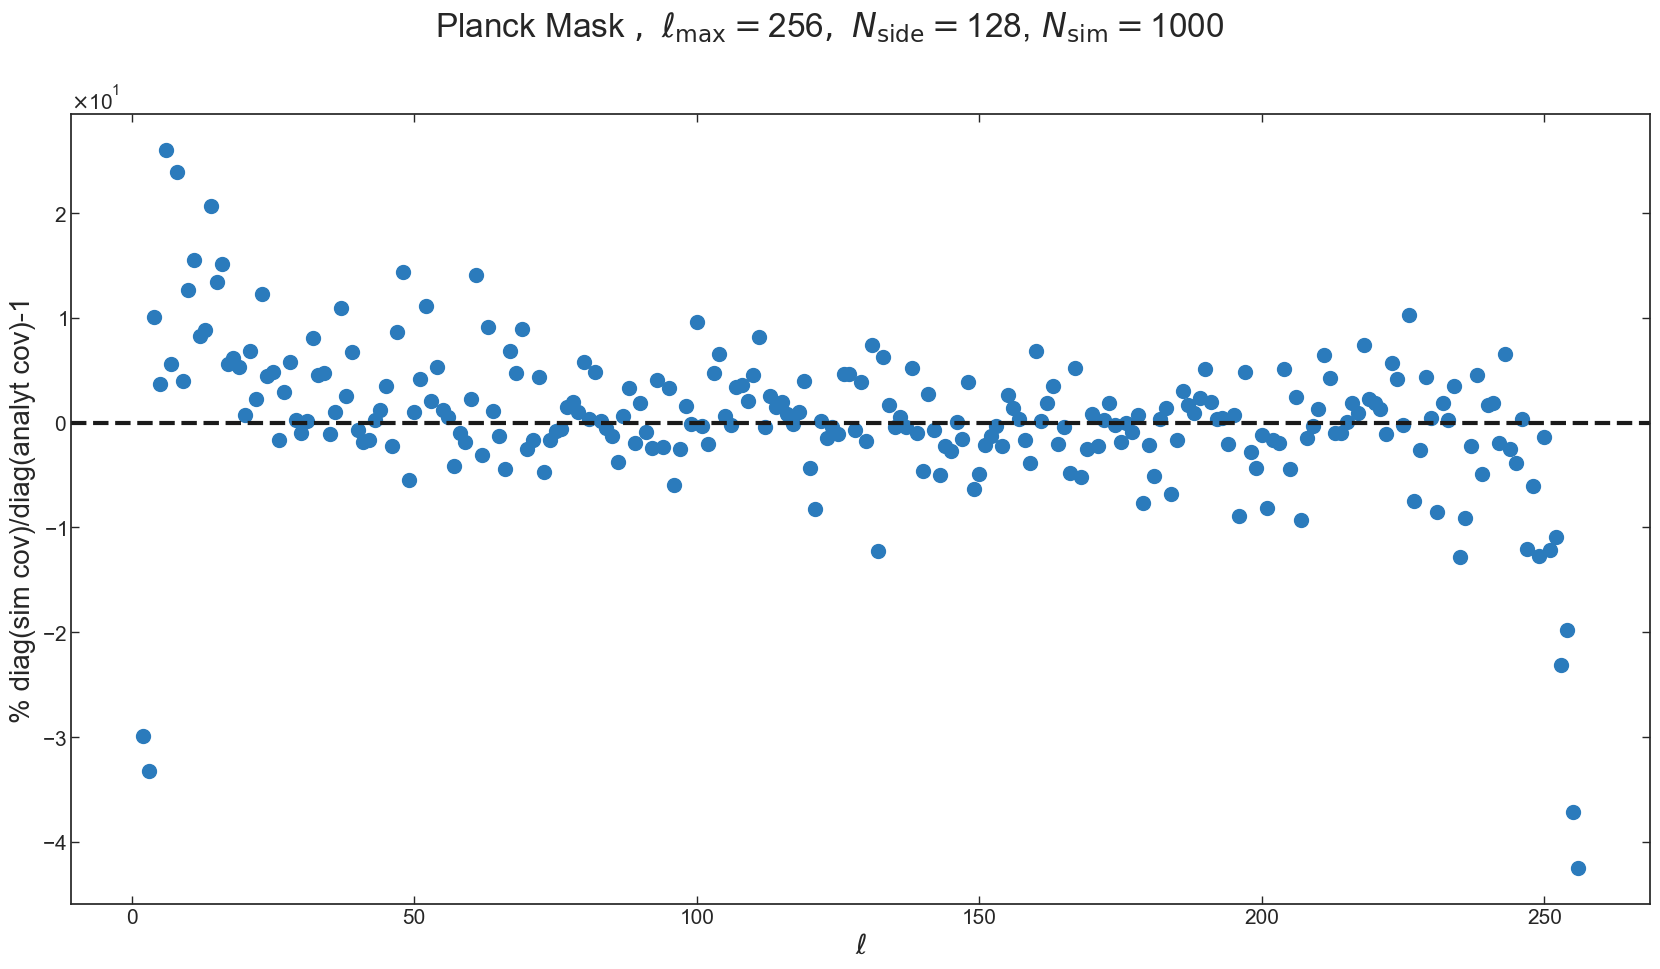
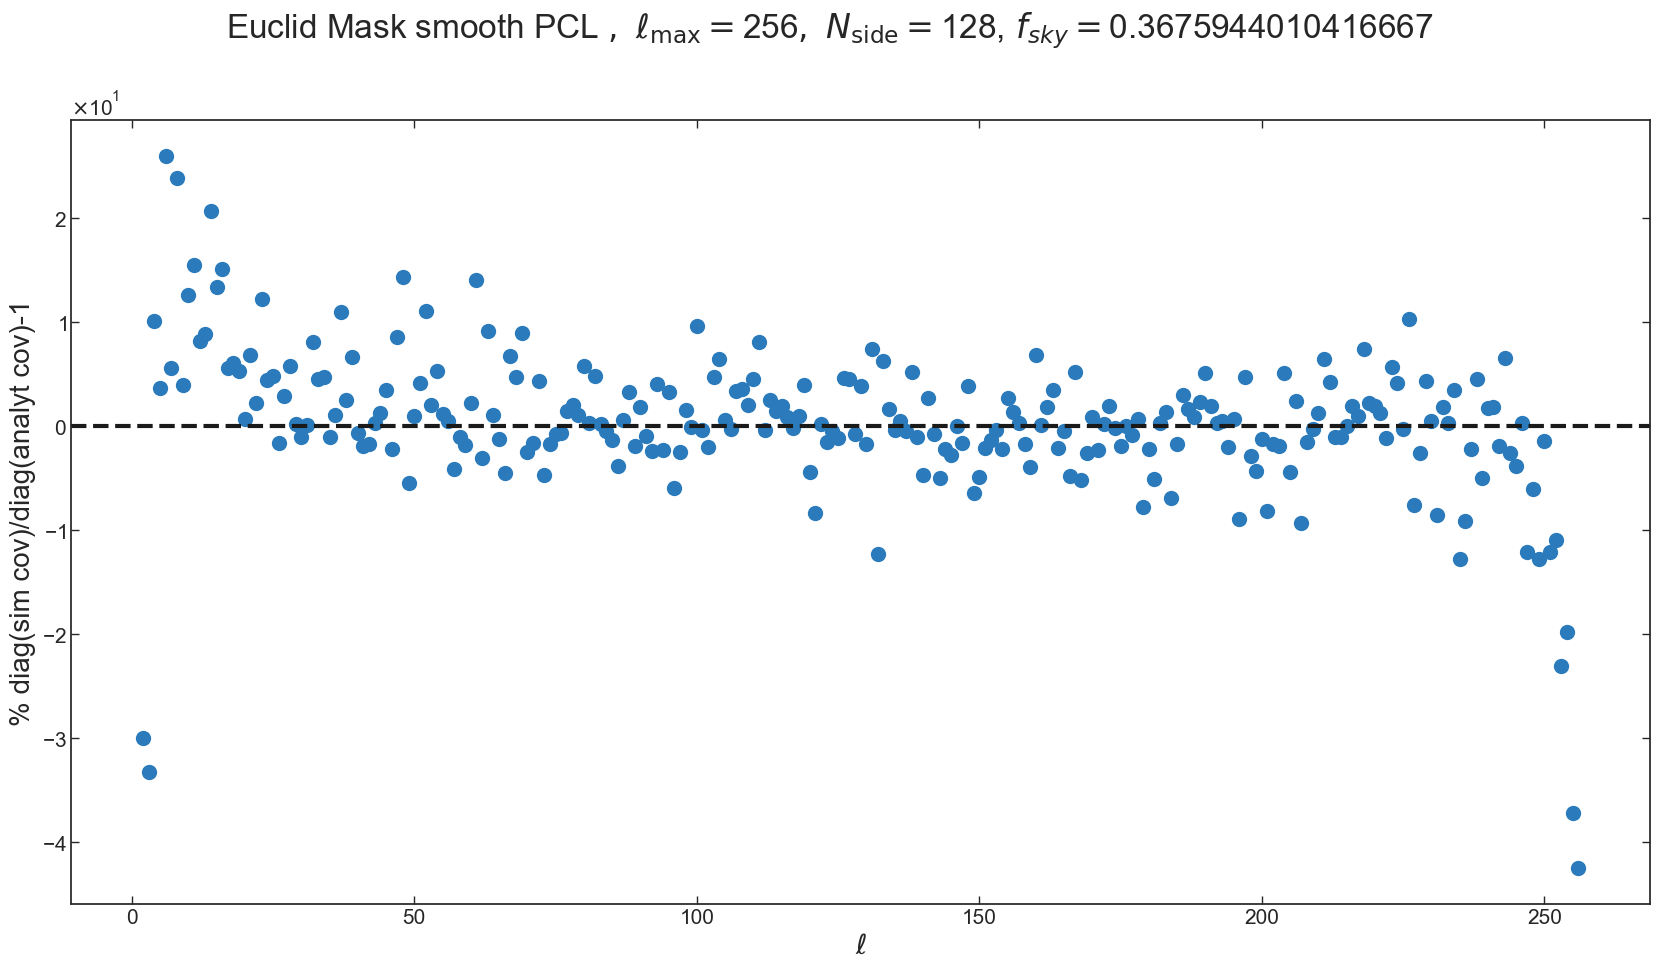
r quit
Minor

diff --git a/src/TG_needlet_EUCLID_mask_noise2_plot_tesi.py b/src/TG_needlet_EUCLID_mask_noise2_plot_tesi.py
@@ -11,10 +11,12 @@ import cython_mylibc as mylibc
 import analysis, utils, spectra, sims
 from IPython import embed
 import seaborn as sns
+
 sns.set()
 sns.set(style = 'white')
 sns.set_palette('husl')
 
+#plt.style.use("dark_background")
 import matplotlib as mpl
 mpl.rc('xtick', direction='in', top=True, bottom = True)
 mpl.rc('ytick', direction='in', right=True, left = True)
@@ -172,7 +174,7 @@ axs[1].set_title(r'Corr $T^T\times gal^T$ Signal + shot noise Masked')
 sns.heatmap(corr_TS_galT_mask, annot=True, fmt='.2f',cmap  = 'crest', mask=mask_, ax=axs[1])
 #
 plt.tight_layout()
-plt.savefig(out_dir+f'total_corr_T_gal_noise_mask_jmax{jmax}_D{myanalysis.B:0.2f}_nsim{nsim}_nside{nside}.png')
+plt.savefig(out_dir+f'total_corr_T_gal_noise_mask_jmax{jmax}_D{myanalysis.B:0.2f}_nsim{nsim}_nside{nside}.png') #questa
 #plt.savefig(f'plot_tesi/Euclid/total_corr_T_gal_noise_mask_jmax{jmax}_D{myanalysis.B:0.2f}_nsim{nsim}_nside{nside}.png')
 
 
@@ -223,7 +225,7 @@ ax.set_xlabel(r'$j$')
 ax.set_ylabel(r'$\hat{\beta}_j^{\mathrm{TG}}$')
 
 fig.tight_layout()
-plt.savefig(out_dir+f'betaj_theory_T_gal_jmax{jmax}_D{myanalysis.B:0.2f}_nsim{nsim}_nside{nside}_mask.png', bbox_inches='tight')
+plt.savefig(out_dir+f'betaj_theory_T_gal_jmax{jmax}_D{myanalysis.B:0.2f}_nsim{nsim}_nside{nside}_mask.png', bbox_inches='tight') #questa
 #plt.savefig(f'plot_tesi/Euclid/betaj_theory_T_gal_jmax{jmax}_D{myanalysis.B:0.2f}_nsim{nsim}_nside{nside}_mask.png', bbox_inches='tight')
 #plt.savefig(f'plot_tesi/Euclid/betaj_theory_T_gal_jmax{jmax}_D{myanalysis.B:0.2f}_nsim{nsim}_nside{nside}_mask.pdf', bbox_inches='tight')
 
@@ -251,7 +253,7 @@ ax.set_ylabel(r'$\langle \hat{\beta}_j^{\mathrm{TG}} \rangle/\beta_j^{\mathrm{TG
 #ax.set_ylim([-0.3,1.3])
 
 fig.tight_layout()
-plt.savefig(out_dir+f'betaj_mean_T_gal_noise_jmax{jmax}_D{myanalysis.B:0.2f}_nsim{nsim}_nside{nside}_mask.png', bbox_inches='tight')
+plt.savefig(out_dir+f'betaj_mean_T_gal_noise_jmax{jmax}_D{myanalysis.B:0.2f}_nsim{nsim}_nside{nside}_mask.png', bbox_inches='tight') #questa
 #plt.savefig(f'plot_tesi/Euclid/betaj_mean_T_gal_noise_jmax{jmax}_D{myanalysis.B:0.2f}_nsim{nsim}_nside{nside}_mask.png', bbox_inches='tight')
 #plt.savefig(f'plot_tesi/Euclid/betaj_mean_T_gal_noise_jmax{jmax}_D{myanalysis.B:0.2f}_nsim{nsim}_nside{nside}_mask.pdf', bbox_inches='tight')
 
@@ -296,7 +298,7 @@ ax.set_ylabel(r'$\langle \tilde{\Gamma}_j^{TG} \rangle/\tilde{\Gamma}_j^{TG, th}
 #ax.set_ylim([-0.3,1.3])
 
 fig.tight_layout()
-plt.savefig(out_dir+f'gammaj_mean_T_gal_noise_jmax{jmax}_D{myanalysis.B:0.2f}_nsim{nsim}_nside{nside}_mask.png', bbox_inches='tight')
+plt.savefig(out_dir+f'gammaj_mean_T_gal_noise_jmax{jmax}_D{myanalysis.B:0.2f}_nsim{nsim}_nside{nside}_mask.png', bbox_inches='tight') #questa
 #plt.savefig(f'plot_tesi/Euclid/gammaj_mean_T_gal_noise_jmax{jmax}_D{myanalysis.B:0.2f}_nsim{nsim}_nside{nside}_mask.png', bbox_inches='tight')
 #plt.savefig(f'plot_tesi/Euclid/gammaj_mean_T_gal_noise_jmax{jmax}_D{myanalysis.B:0.2f}_nsim{nsim}_nside{nside}_mask.pdf', bbox_inches='tight')
 
@@ -319,7 +321,8 @@ ax.set_xlabel(r'$j$')
 ax.set_ylabel(r'$\tilde{\Gamma}^{\mathrm{\,TG}}_j$')
 
 fig.tight_layout()
-plt.savefig(out_dir+f'gammaj_theory_T_gal_jmax{jmax}_D{myanalysis.B:0.2f}_nsim{nsim}_nside{nside}_mask.png', bbox_inches='tight')
+
+plt.savefig(out_dir+f'gammaj_theory_T_gal_jmax{jmax}_D{myanalysis.B:0.2f}_nsim{nsim}_nside{nside}_mask.png', bbox_inches='tight')#questa
 #plt.savefig(f'plot_tesi/Euclid/gammaj_theory_T_gal_jmax{jmax}_D{myanalysis.B:0.2f}_nsim{nsim}_nside{nside}_mask.png', bbox_inches='tight')
 #plt.savefig(f'plot_tesi/Euclid/gammaj_theory_T_gal_jmax{jmax}_D{myanalysis.B:0.2f}_nsim{nsim}_nside{nside}_mask.pdf', bbox_inches='tight')
 
@@ -329,10 +332,10 @@ print(f'diff cov mask={diff_cov_mask}, diff cov mean={diff_cov_mean_mask}')
 
 ####################################################################################
 ############################# DIFF COVARIANCES #####################################
-
+##NEEDLETS
 fig = plt.figure(figsize=(17,10))
 
-plt.suptitle(r'$D = %1.2f $' %myanalysis.B +r'$ ,~j_{\mathrm{max}} =$'+str(jmax) + r'$ ,~\ell_{\mathrm{max}} =$'+str(lmax) + r'$ ,~N_{\mathrm{side}} =$'+str(simparams['nside']) + r',$~N_{\mathrm{sim}} = $'+str(nsim))
+plt.suptitle(r'EuclidxPlanck MASK NEEDLETS $D = %1.2f $' %myanalysis.B +r'$ ,~j_{\mathrm{max}} =$'+str(jmax) + r'$ ,~\ell_{\mathrm{max}} =$'+str(lmax) + r'$ ,~N_{\mathrm{side}} =$'+str(simparams['nside']) + r',$~f_{sky} = $'+str(fsky))
 
 ax = fig.add_subplot(1, 1, 1)
 
@@ -347,10 +350,72 @@ ax.set_xlabel(r'$j$')
 ax.set_ylabel(r'% $(\Delta \Gamma)^2_{\mathrm{sims}}/(\Delta \Gamma)^2_{\mathrm{analytic}}$ - 1')
 
 fig.tight_layout()
-plt.savefig(out_dir+f'diff_cov_gammaj_theory_T_gal_jmax{jmax}_D{myanalysis.B:0.2f}_nsim{nsim}_nside{nside}_mask.png', bbox_inches='tight')
+plt.savefig(out_dir+f'diff_cov_gammaj_theory_T_gal_jmax{jmax}_D{myanalysis.B:0.2f}_nsim{nsim}_nside{nside}_mask.png', bbox_inches='tight') #questa
 #plt.savefig(f'plot_tesi/Euclid/EUCLID_VALIDATION_diff_cov_gammaj_theory_T_gal_jmax{jmax}_D{myanalysis.B:0.2f}_nsim{nsim}_nside{nside}_mask.pdf', bbox_inches='tight')
 
+###PSEUDO
+def cov_cl(cltg,cltt, clgg, lmax,lmin, fsky=1.,noise_gal_l=None):
+    """
+    Returns the Cov(Pseudo-C_\ell, Pseudo-C_\ell') 
+    Notes
+    -----
+    Cov(Pseudo-C_\ell, Pseudo-C_\ell') .shape = (lmax+1, lmax+1)
+    """
+    if noise_gal_l is not None:
+        clgg_tot = clgg+noise_gal_l
+    else:
+        clgg_tot = clgg
+    ell= np.arange(lmin, lmax+1)
+    covll = np.zeros(( ell.shape[0], ell.shape[0]))
+    for l,ell1 in enumerate(ell):
+        for ll,ell2 in enumerate(ell):
+            if l!=ll: covll[l,ll]=0
+            else:
+                covll[l,ll] = (cltg[lmin:][l]*cltg[lmin:][ll]+np.sqrt(cltt[lmin:][l]*cltt[lmin:][ll]*clgg_tot[lmin:][l]*clgg_tot[lmin:][ll]))/(fsky*(2.*ell1+1))
+    return covll
 
+def cov_pseudo_cl(cltg,cltt, clgg, wl, lmax, noise_gal_l=None):
+    """
+    Returns the Cov(Pseudo-C_\ell, Pseudo-C_\ell') 
+    Notes
+    -----
+    Cov(Pseudo-C_\ell, Pseudo-C_\ell') .shape = (lmax+1, lmax+1)
+    """
+    if noise_gal_l is not None:
+        clgg_tot = clgg+noise_gal_l
+    else:
+        clgg_tot = clgg
+    Mll  = need_theory.get_Mll(wl,lmax)
+    ell= np.arange(lmax+1)
+    covll = np.zeros((ell.shape[0], ell.shape[0]))
+    for l,ell1 in enumerate(ell):
+        for ll,ell2 in enumerate(ell):
+            covll[l,ll] = Mll[l,ll]*(cltg[l]*cltg[ll]+np.sqrt(cltt[l]*cltt[ll]*clgg_tot[l]*clgg_tot[ll]))/(2.*ell1+1)
+    return covll
+cls_tg = np.loadtxt('/ehome/bdecaro/xcmbneed/src/cls_from_maps/EUCLID/cls_Tgalnoise_anafast_nside128_lmax256_Euclidnoise_Marina_nsim1000_fsky0.36.dat')
+
+cov_pcl_sim = np.cov(cls_tg.T)
+
+cov_pcl= cov_pseudo_cl(cltg=cl_theory_tg,cltt=cl_theory_tt, clgg=cl_theory_gg, wl=wl, lmax=lmax,noise_gal_l=Nll)
+
+fig = plt.figure(figsize=(17,10))
+
+plt.suptitle(r'EuclidxPlanck Mask PCL $ ,~\ell_{\mathrm{max}} =$'+str(lmax) + r'$ ,~N_{\mathrm{side}} =$'+str(simparams['nside']) + r',$~f_{sky} = $'+str(fsky))
+
+ax = fig.add_subplot(1, 1, 1)
+
+#ax.plot(myanalysis.jvec[1:jmax+1], gammaJ_tg[1:jmax+1], label='Theory')
+ax.plot(np.arange(2, lmax+1), (np.diag(cov_pcl_sim)[2:]-np.diag(cov_pcl)[2:])/np.diag(cov_pcl)[2:]*100 ,'o',ms=10,color='#2b7bbc')#, label='MASK')
+#ax.plot(myanalysis.jvec[1:], (np.sqrt(np.diag(cov_TS_galT)[1:])-delta_noise[1:])/delta_noise[1:]*100 , label='FULL SKY')
+ax.axhline(ls='--', c='k')
+#ax.legend(loc='best')
+plt.ticklabel_format(style='sci', axis='y', scilimits=(0,0))
+ax.yaxis.set_major_formatter(formatter) 
+ax.set_xlabel(r'$\ell$')
+#ax.set_ylabel(r'% $(\Delta \Gamma)^2_{\mathrm{sims}}/(\Delta \Gamma)^2_{\mathrm{analytic}}$ - 1')
+ax.set_ylabel(r'% diag(sim cov)/diag(analyt cov)-1')
+fig.tight_layout()
+plt.savefig(out_dir+f'diff_cov_pcl_theory_T_gal_lmax{lmax}_nsim{nsim}_nside{nside}_mask.png', bbox_inches='tight') #questa
 ################################ DIFF VARIANCE #####################################
 
 
@@ -370,8 +435,8 @@ ax.set_xlabel(r'$j$')
 ax.set_ylabel(r'% $\sigma_{\mathrm{sims}}/\sigma_{\mathrm{analytic}}$ - 1')
 
 fig.tight_layout()
-plt.savefig(out_dir+f'diff_variance_gammaj_theory_T_gal_jmax{jmax}_D{myanalysis.B:0.2f}_nsim{nsim}_nside{nside}_mask.png', bbox_inches='tight')
-plt.savefig(out_dir+f'diff_variance_gammaj_theory_T_gal_jmax{jmax}_D{myanalysis.B:0.2f}_nsim{nsim}_nside{nside}_mask.pdf', bbox_inches='tight')
+plt.savefig(out_dir+f'diff_variance_gammaj_theory_T_gal_jmax{jmax}_D{myanalysis.B:0.2f}_nsim{nsim}_nside{nside}_mask.png', bbox_inches='tight') #questa
+#plt.savefig(out_dir+f'diff_variance_gammaj_theory_T_gal_jmax{jmax}_D{myanalysis.B:0.2f}_nsim{nsim}_nside{nside}_mask.pdf', bbox_inches='tight')
 
 
 
@@ -428,46 +493,7 @@ plt.tight_layout()
 
 ######################################################################################
 ############################## SIGNAL TO NOISE RATIO #################################
-def cov_cl(cltg,cltt, clgg, lmax,lmin, fsky=1.,noise_gal_l=None):
-    """
-    Returns the Cov(Pseudo-C_\ell, Pseudo-C_\ell') 
-    Notes
-    -----
-    Cov(Pseudo-C_\ell, Pseudo-C_\ell') .shape = (lmax+1, lmax+1)
-    """
-    if noise_gal_l is not None:
-        clgg_tot = clgg+noise_gal_l
-    else:
-        clgg_tot = clgg
-    ell= np.arange(lmin, lmax+1)
-    covll = np.zeros(( ell.shape[0], ell.shape[0]))
-    for l,ell1 in enumerate(ell):
-        for ll,ell2 in enumerate(ell):
-            if l!=ll: covll[l,ll]=0
-            else:
-                covll[l,ll] = (cltg[lmin:][l]*cltg[lmin:][ll]+np.sqrt(cltt[lmin:][l]*cltt[lmin:][ll]*clgg_tot[lmin:][l]*clgg_tot[lmin:][ll]))/(fsky*(2.*ell1+1))
-    return covll
 
-def cov_pseudo_cl(cltg,cltt, clgg, wl, lmax, noise_gal_l=None):
-    """
-    Returns the Cov(Pseudo-C_\ell, Pseudo-C_\ell') 
-    Notes
-    -----
-    Cov(Pseudo-C_\ell, Pseudo-C_\ell') .shape = (lmax+1, lmax+1)
-    """
-    if noise_gal_l is not None:
-        clgg_tot = clgg+noise_gal_l
-    else:
-        clgg_tot = clgg
-    Mll  = need_theory.get_Mll(wl,lmax)
-    ell= np.arange(lmax+1)
-    covll = np.zeros((ell.shape[0], ell.shape[0]))
-    for l,ell1 in enumerate(ell):
-        for ll,ell2 in enumerate(ell):
-            covll[l,ll] = Mll[l,ll]*(cltg[l]*cltg[ll]+np.sqrt(cltt[l]*cltt[ll]*clgg_tot[l]*clgg_tot[ll]))/(2.*ell1+1)
-    return covll
-
-cls_tg = np.loadtxt('/ehome/bdecaro/xcmbneed/src/cls_from_maps/EUCLID/cls_Tgalnoise_anafast_nside128_lmax256_Euclidnoise_Marina_nsim1000_fsky0.36.dat')
 
 cls_tg_mean = np.mean(cls_tg, axis=0)
 cls_recovered = np.dot(np.linalg.inv(Mll[2:,2:]),cls_tg_mean[2:] ) 
@@ -558,7 +584,7 @@ ax.set_xlabel(r'$j$')
 ax.set_ylabel('Signal-to-Noise ratio')
 
 fig.tight_layout()
-plt.savefig(f'plot_tesi/Euclid/SNR_betaj_theory_T_gal_jmax{jmax}_D{myanalysis.B:0.2f}_nsim{nsim}_nside{nside}_mask.png', bbox_inches='tight')
+plt.savefig(f'plot_tesi/Euclid/SNR_betaj_theory_T_gal_jmax{jmax}_D{myanalysis.B:0.2f}_nsim{nsim}_nside{nside}_mask.png', bbox_inches='tight') #questa
 #plt.savefig(f'plot_tesi/Euclid/SNR_betaj_theory_T_gal_jmax{jmax}_D{myanalysis.B:0.2f}_nsim{nsim}_nside{nside}_mask.pdf', bbox_inches='tight')
 
 ## CUMULATIVE
@@ -588,5 +614,6 @@ ax.set_ylabel('Cumulative Signal-to-Noise ratio')
 ax.legend()
 
 fig.tight_layout()
-plt.savefig(f'plot_tesi/Euclid/SNR_cumulative_betaj_theory_T_gal_jmax{jmax}_D{myanalysis.B:0.2f}_nsim{nsim}_nside{nside}_mask.png', bbox_inches='tight')
+
+plt.savefig(f'plot_tesi/Euclid/SNR_cumulative_betaj_theory_T_gal_jmax{jmax}_D{myanalysis.B:0.2f}_nsim{nsim}_nside{nside}_mask.png', bbox_inches='tight') #questa
 #plt.savefig(f'plot_tesi/Euclid/SNR_cumulative_betaj_theory_T_gal_jmax{jmax}_D{myanalysis.B:0.2f}_nsim{nsim}_nside{nside}_mask.pdf', bbox_inches='tight')

diff --git a/src/b_need/b_values.py b/src/b_need/b_values.py
@@ -1,5 +1,17 @@
 import numpy as np
 import matplotlib.pyplot as plt
+import seaborn as sns
+sns.set()
+
+sns.set(style = 'white')
+sns.set_palette('husl')
+
+import matplotlib as mpl
+mpl.rc('xtick', direction='in', top=True, bottom = True)
+mpl.rc('ytick', direction='in', right=True, left = True)
+plt.style.use("dark_background")
+
+
 from matplotlib import rc, rcParams
 plt.rcParams['axes.linewidth']  = 5.
 plt.rcParams['axes.labelsize']  =30
@@ -23,7 +35,7 @@ plt.rcParams['font.size'] = 40
 plt.rcParams['lines.linewidth']  = 5.
 
 
-b_need_1p5 = np.loadtxt('/ehome/bdecaro/xcmbneed/src/b_values_B=1.50.txt')
+b_need_1p5 = np.loadtxt('b_values_B=1.50.txt')
 
 print(b_need_1p5, b_need_1p5.shape[0]) #dovrebbe essere j righe e l colonne
 
@@ -46,7 +58,7 @@ plt.tight_layout()
 #plt.savefig('b_need_D1.47_log.png')
 #plt.savefig('b_need_D1.47_j6.png')
 
-b_need_1p7 = np.loadtxt('/ehome/bdecaro/xcmbneed/src/b_values_B=1.70.txt')
+b_need_1p7 = np.loadtxt('b_values_B=1.70.txt')
 
 print(b_need_1p7, b_need_1p7.shape[0]) #dovrebbe essere j righe e l colonne
 
@@ -69,7 +81,7 @@ plt.tight_layout()
 #plt.savefig('b_need_D1.70_log.png')
 #plt.savefig('b_need_D1.70_j6.png')
 
-b_need_1p83 = np.loadtxt('/ehome/bdecaro/xcmbneed/src/b_values_B=1.83.txt')
+b_need_1p83 = np.loadtxt('b_values_B=1.83.txt')
 
 print(b_need_1p83, b_need_1p83.shape[0]) #dovrebbe essere j righe e l colonne
 
@@ -89,11 +101,11 @@ ax1.set_title('D = 1.83')#, fontsize = 25)
 plt.tight_layout()
 #plt.plot(b_need[6])
 
-plt.savefig('b_need_D1.83_log.png')
+plt.savefig('b_need_D1.83_log_dark_bg.png')
 #plt.savefig('b_need_D1.83_j6.png')
 
 
-b_need_1p95 = np.loadtxt('/ehome/bdecaro/xcmbneed/src/b_values_B=1.95.txt')
+b_need_1p95 = np.loadtxt('b_values_B=1.95.txt')
 
 print(b_need_1p95, b_need_1p95.shape[0]) #dovrebbe essere j righe e l colonne
 
@@ -113,5 +125,5 @@ ax1.set_title('D = 1.95')#, fontsize = 25)
 plt.tight_layout()
 #plt.plot(b_need[6])
 
-plt.savefig('b_need_D1.95_log.png')
+plt.savefig('b_need_D1.95_log_dark_bg.png')
 #plt.savefig('b_need_D1.95_j6.png')

diff --git a/src/TG_needlet_EUCLID_mask_smooth_noise.py b/src/TG_needlet_EUCLID_mask_smooth_noise.py
@@ -328,7 +328,7 @@ print(f'diff cov mask={diff_cov_mask}, diff cov mean={diff_cov_mean_mask}')
 ##NEEDLETS
 fig = plt.figure(figsize=(17,10))
 
-plt.suptitle(r'Planck Mask $D = %1.2f $' %myanalysis.B +r'$ ,~j_{\mathrm{max}} =$'+str(jmax) + r'$ ,~\ell_{\mathrm{max}} =$'+str(lmax) + r'$ ,~N_{\mathrm{side}} =$'+str(simparams['nside']) + r',$~N_{\mathrm{sim}} = $'+str(nsim))
+plt.suptitle(r'Euclid Mask smooth NEEDLETS $D = %1.2f $' %myanalysis.B +r'$ ,~j_{\mathrm{max}} =$'+str(jmax) + r'$ ,~\ell_{\mathrm{max}} =$'+str(lmax) + r'$ ,~N_{\mathrm{side}} =$'+str(simparams['nside']) + r',$~f_{sky} = $'+str(fsky))
 
 ax = fig.add_subplot(1, 1, 1)
 
@@ -341,7 +341,7 @@ plt.ticklabel_format(style='sci', axis='y', scilimits=(0,0))
 ax.yaxis.set_major_formatter(formatter) 
 ax.set_xlabel(r'$j$')
 #ax.set_ylabel(r'% $(\Delta \Gamma)^2_{\mathrm{sims}}/(\Delta \Gamma)^2_{\mathrm{analytic}}$ - 1')
-ax.set_ylabel(r'src/TG_needlet_mask_noise_PLANCK.py% diag(sim cov)/diag(analyt cov)-1')
+ax.set_ylabel(r'% diag(sim cov)/diag(analyt cov)-1')
 fig.tight_layout()
 plt.savefig(out_dir+f'diff_cov_gammaj_theory_T_gal_jmax{jmax}_D{myanalysis.B:0.2f}_nsim{nsim}_nside{nside}_mask.png', bbox_inches='tight')
 
@@ -392,7 +392,7 @@ cov_pcl= cov_pseudo_cl(cltg=cl_theory_tg,cltt=cl_theory_tt, clgg=cl_theory_gg, w
 
 fig = plt.figure(figsize=(17,10))
 
-plt.suptitle(r'Planck Mask $ ,~\ell_{\mathrm{max}} =$'+str(lmax) + r'$ ,~N_{\mathrm{side}} =$'+str(simparams['nside']) + r',$~N_{\mathrm{sim}} = $'+str(nsim))
+plt.suptitle(r'Euclid Mask smooth PCL $ ,~\ell_{\mathrm{max}} =$'+str(lmax) + r'$ ,~N_{\mathrm{side}} =$'+str(simparams['nside']) + r',$~f_{sky} = $'+str(fsky))
 
 ax = fig.add_subplot(1, 1, 1)
 

diff --git a/src/TG_needlet_EUCLID_PLANCKmask_noise.py b/src/TG_needlet_EUCLID_PLANCKmask_noise.py
@@ -328,7 +328,7 @@ print(f'diff cov mask={diff_cov_mask}, diff cov mean={diff_cov_mean_mask}')
 ##NEEDLETS
 fig = plt.figure(figsize=(17,10))
 
-plt.suptitle(r'Planck Mask $D = %1.2f $' %myanalysis.B +r'$ ,~j_{\mathrm{max}} =$'+str(jmax) + r'$ ,~\ell_{\mathrm{max}} =$'+str(lmax) + r'$ ,~N_{\mathrm{side}} =$'+str(simparams['nside']) + r',$~N_{\mathrm{sim}} = $'+str(nsim))
+plt.suptitle(r'Planck Mask NEEDLETS $D = %1.2f $' %myanalysis.B +r'$ ,~j_{\mathrm{max}} =$'+str(jmax) + r'$ ,~\ell_{\mathrm{max}} =$'+str(lmax) + r'$ ,~N_{\mathrm{side}} =$'+str(simparams['nside']) + r',$~f_{sky} = $'+str(fsky))
 
 ax = fig.add_subplot(1, 1, 1)
 
@@ -341,7 +341,7 @@ plt.ticklabel_format(style='sci', axis='y', scilimits=(0,0))
 ax.yaxis.set_major_formatter(formatter) 
 ax.set_xlabel(r'$j$')
 #ax.set_ylabel(r'% $(\Delta \Gamma)^2_{\mathrm{sims}}/(\Delta \Gamma)^2_{\mathrm{analytic}}$ - 1')
-ax.set_ylabel(r'src/TG_needlet_mask_noise_PLANCK.py% diag(sim cov)/diag(analyt cov)-1')
+ax.set_ylabel(r'diag(sim cov)/diag(analyt cov)-1')
 fig.tight_layout()
 plt.savefig(out_dir+f'diff_cov_gammaj_theory_T_gal_jmax{jmax}_D{myanalysis.B:0.2f}_nsim{nsim}_nside{nside}_mask.png', bbox_inches='tight')
 
@@ -392,7 +392,7 @@ cov_pcl= cov_pseudo_cl(cltg=cl_theory_tg,cltt=cl_theory_tt, clgg=cl_theory_gg, w
 
 fig = plt.figure(figsize=(17,10))
 
-plt.suptitle(r'Planck Mask $ ,~\ell_{\mathrm{max}} =$'+str(lmax) + r'$ ,~N_{\mathrm{side}} =$'+str(simparams['nside']) + r',$~N_{\mathrm{sim}} = $'+str(nsim))
+plt.suptitle(r'Planck Mask PCL $ ,~\ell_{\mathrm{max}} =$'+str(lmax) + r'$ ,~N_{\mathrm{side}} =$'+str(simparams['nside']) + r',$~f_{sky} = $'+str(fsky))
 
 ax = fig.add_subplot(1, 1, 1)
 

diff --git a/src/likelihood_OmL_tesi_EUCLID.py b/src/likelihood_OmL_tesi_EUCLID.py
@@ -7,7 +7,7 @@ import seaborn as sns
 sns.set()
 sns.set(style = 'white')
 sns.set_palette('husl')
-
+#plt.style.use("dark_background")
 import matplotlib as mpl
 mpl.rc('xtick', direction='in', top=True, bottom = True)
 mpl.rc('ytick', direction='in', right=True, left = True)
